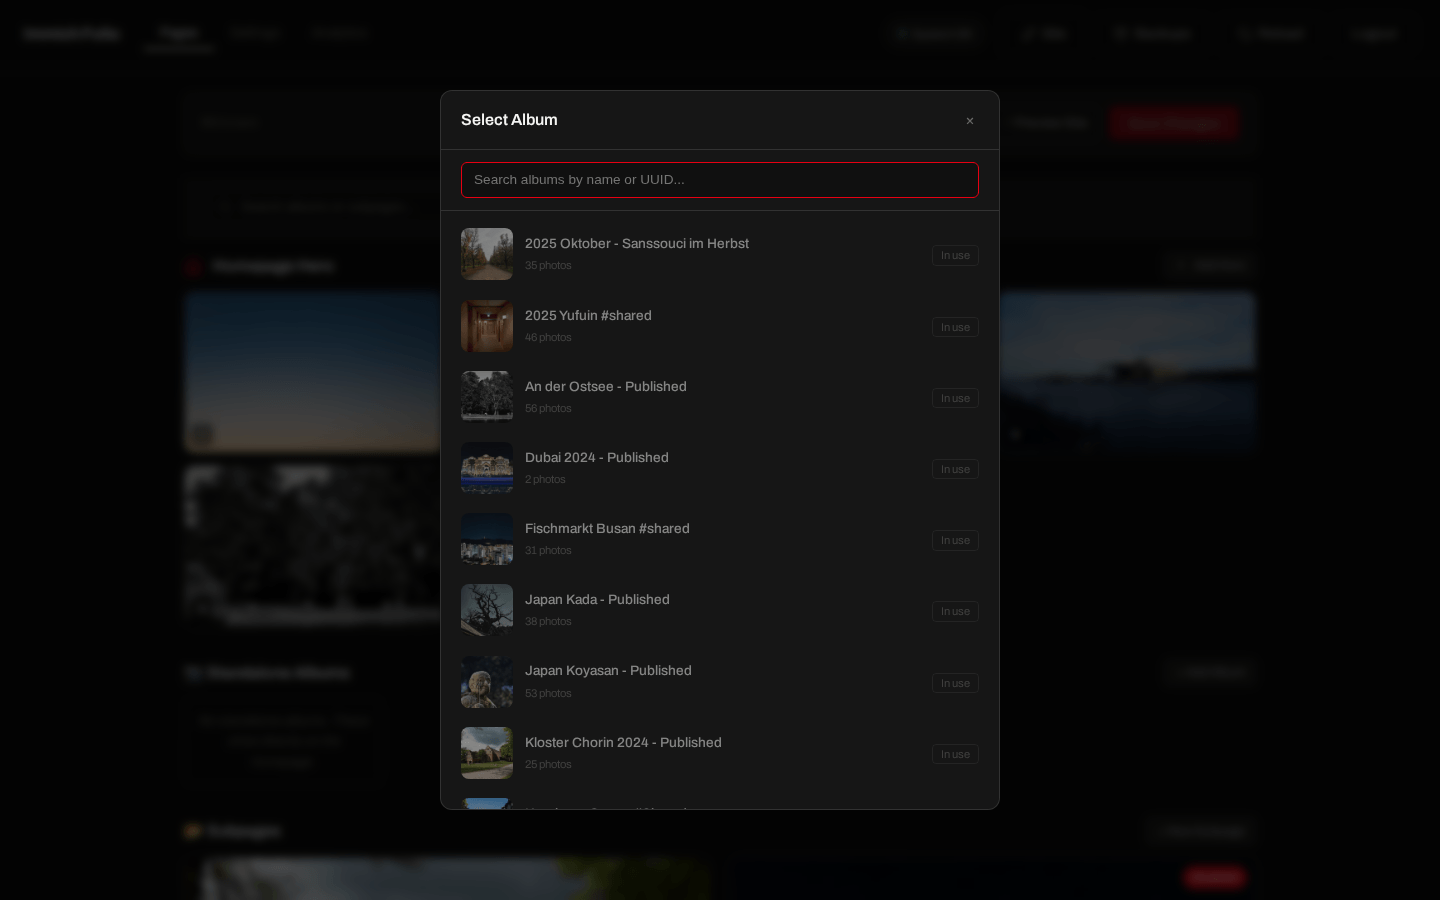
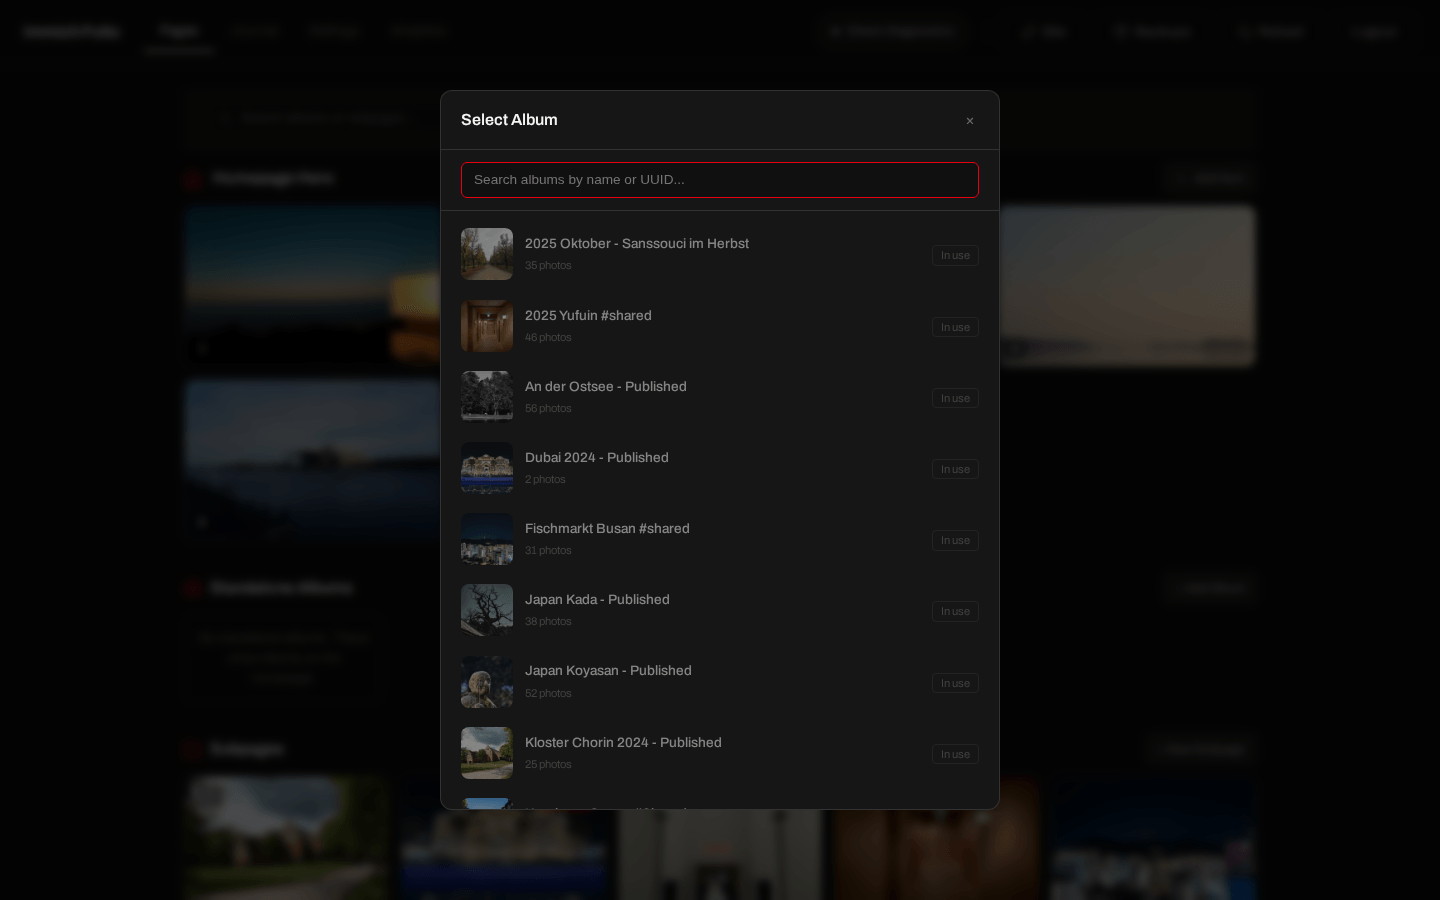
chore(release): v0.12.0
Closes the Unreleased section and refreshes the three documentation
screenshots that no longer matched the admin panel: the settings section
(grouped, #510), the album picker (#515) and the lightbox info panel
(#511, #514).

diff --git a/CHANGELOG.md b/CHANGELOG.md
@@ -7,7 +7,7 @@ and this project adheres to [Semantic Versioning](https://semver.org/spec/v2.0.0
 Releases up to and including v0.9.2 are documented in the
 [GitHub releases](https://github.com/ralksta/immich-folio/releases).
 
-## [Unreleased]
+## [0.12.0] — 2026-08-23
 
 ### Added
 
